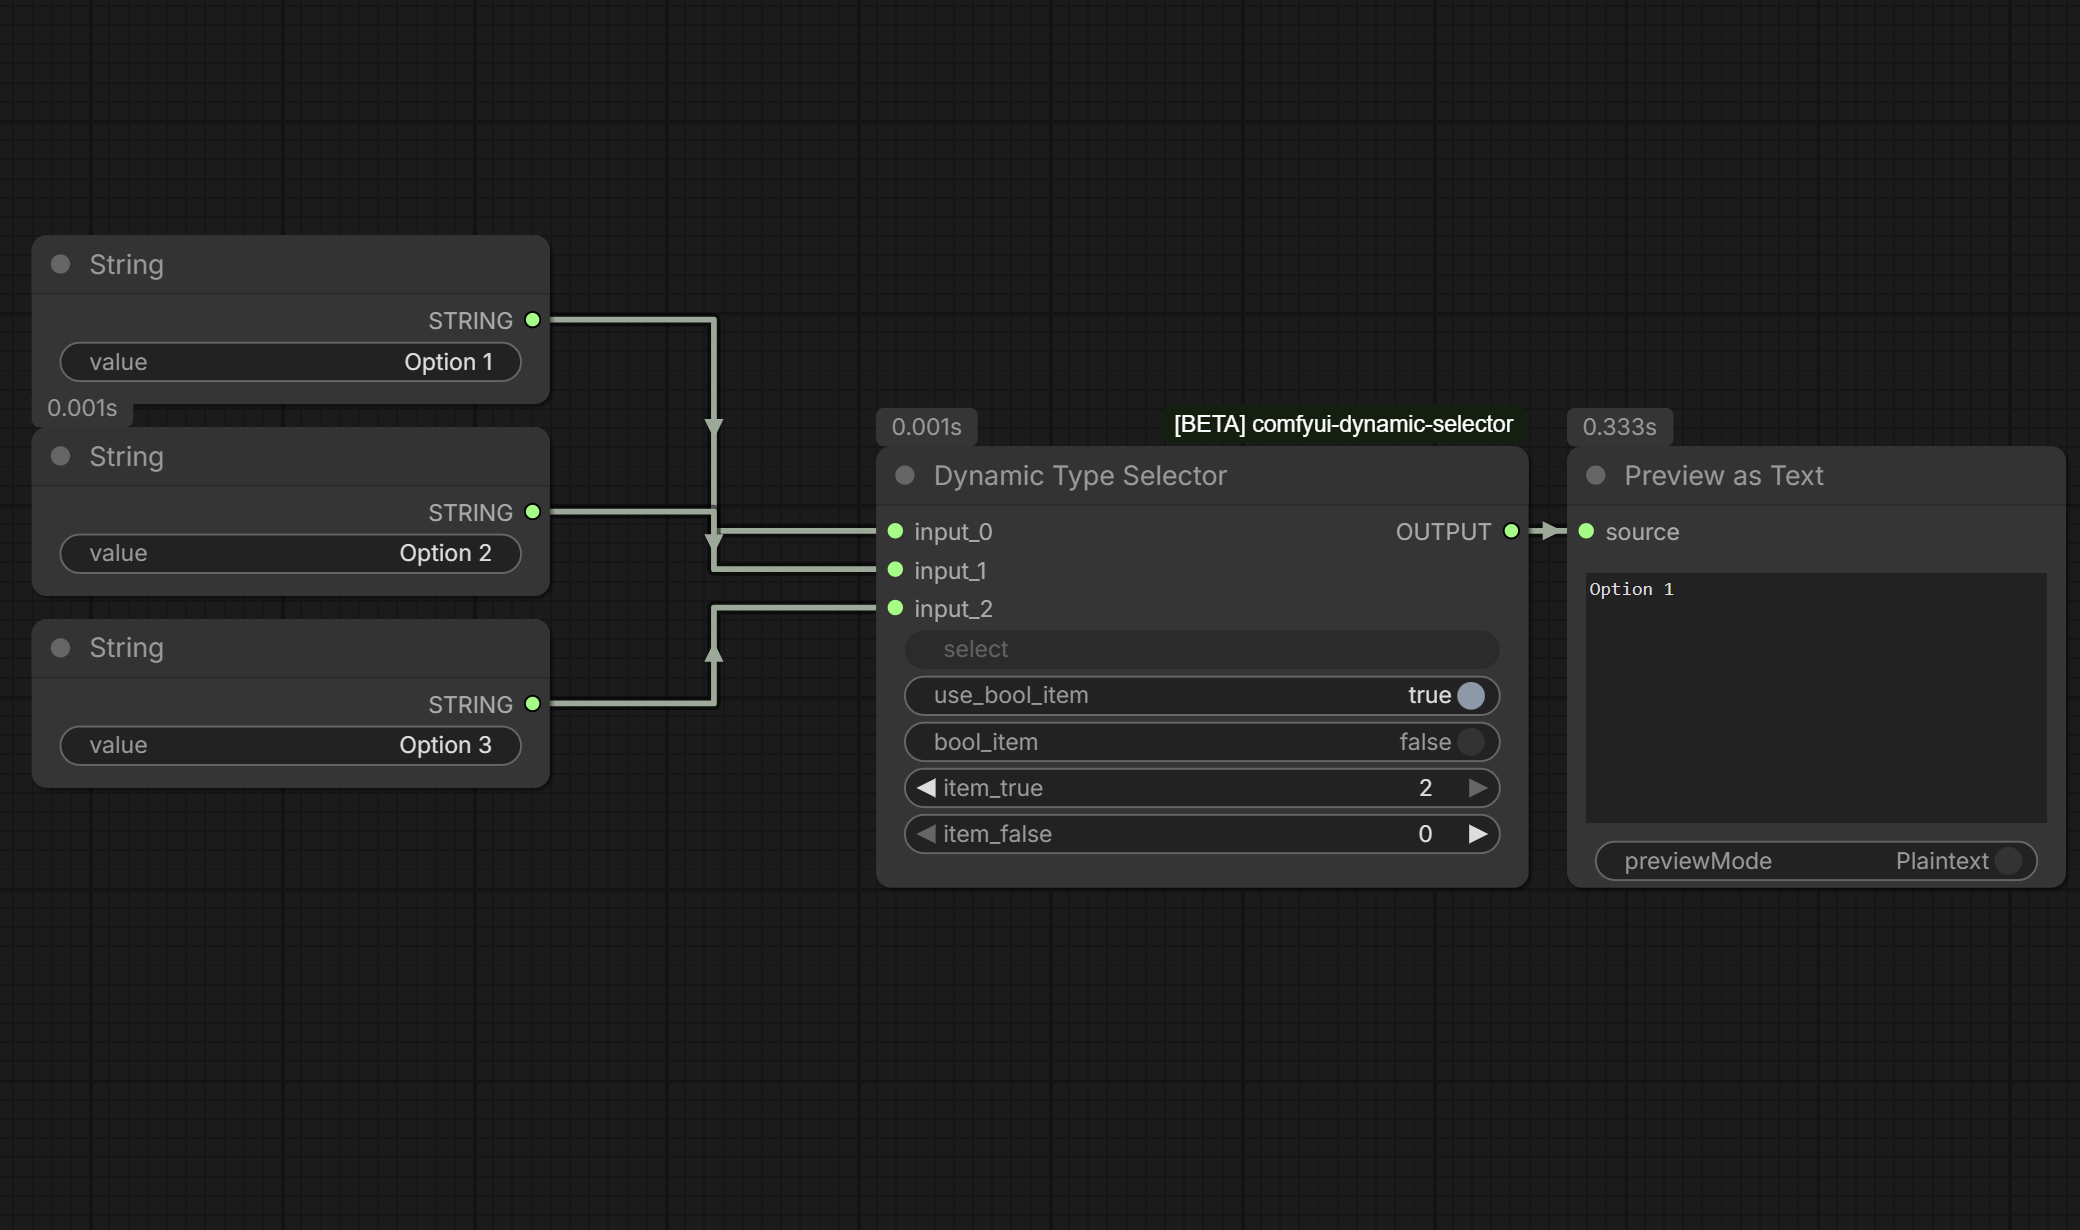
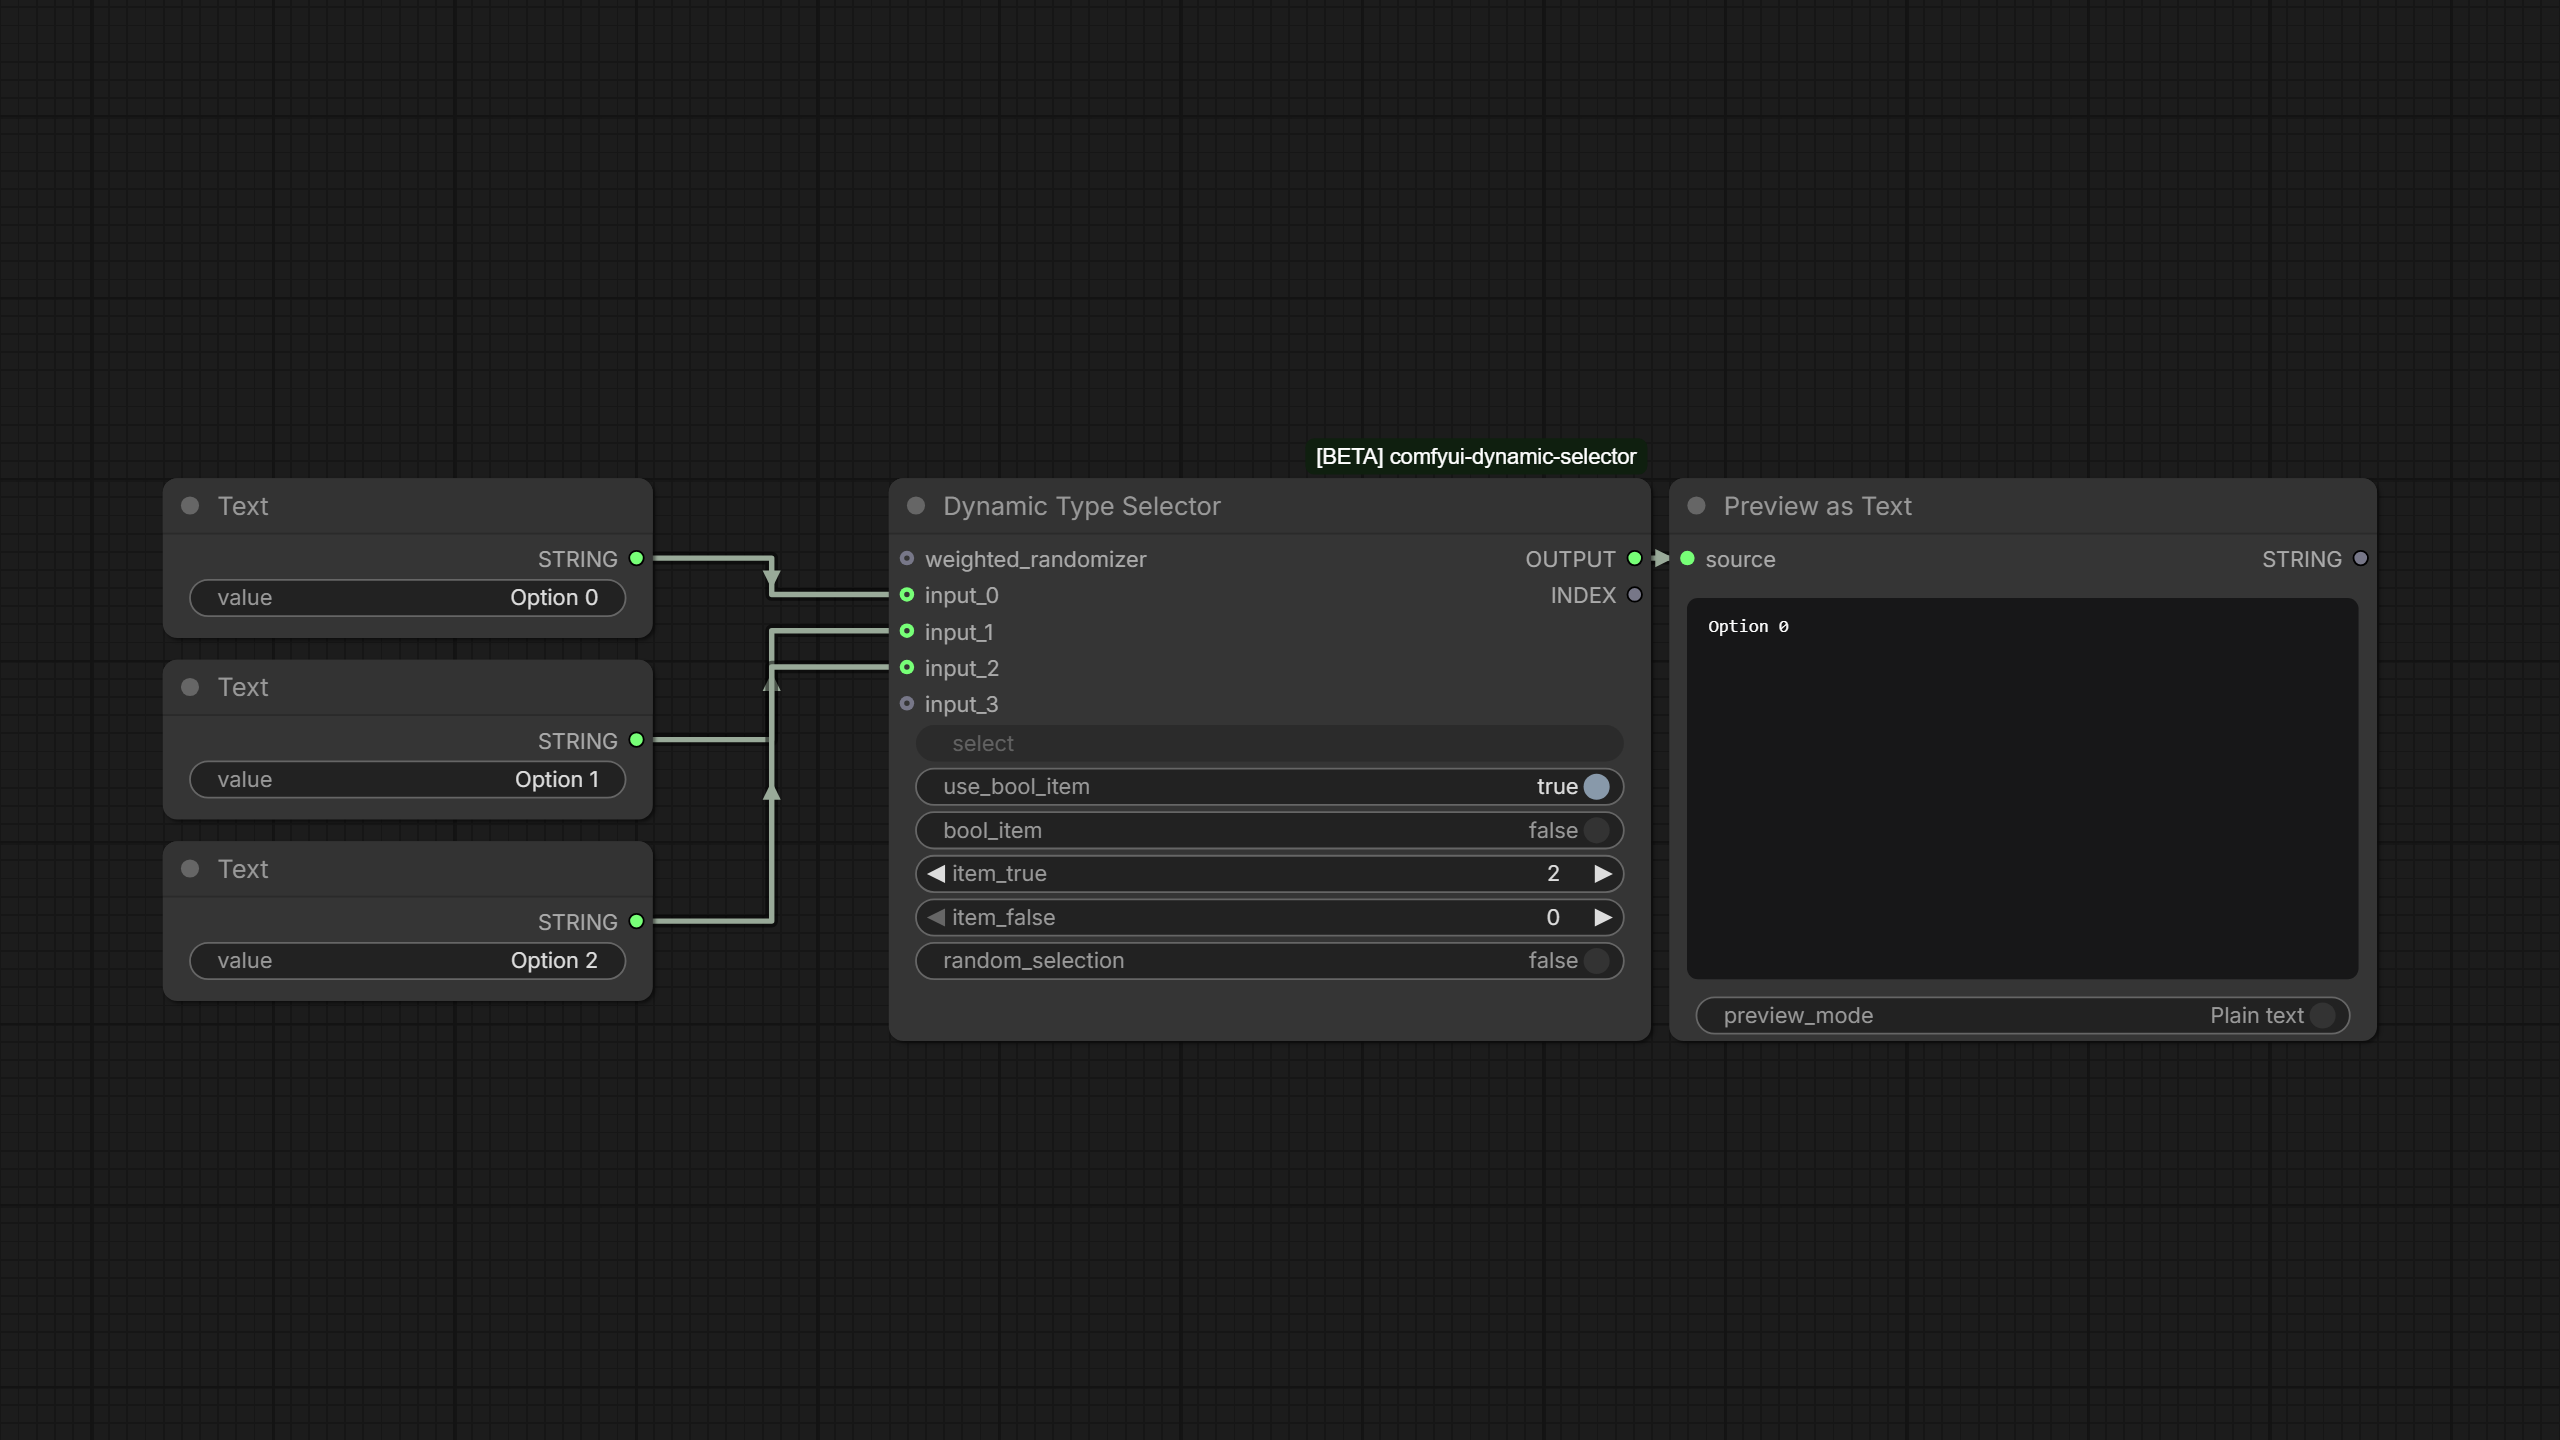
String Iterator: Support custom delimiters, allow empty items. Dynamic Combo: Fix an issue where the edited values does not get updated when being wrapped inside a Subgraph. Update document images with new node looks.

Changed region(s): [[0.0, 0.1854, 1.0, 0.7415]]

diff --git a/web/dynamic_selector.js b/web/dynamic_selector.js
@@ -1025,6 +1025,13 @@ function updateWidgetAvailability(node, widget, visible, available, skipCanvasRe
         refreshNodeAfterWidgetStateChange(node);
 }
 
+function syncCustomDelimiterVisibility(node, splitModeWidget, customDelimiterWidget) {
+    if (!splitModeWidget || !customDelimiterWidget)
+        return;
+    const mode = splitModeWidget.value;
+    updateWidgetAvailability(node, customDelimiterWidget, mode === "custom" || mode === "regex");
+}
+
 function isRandomSelectionActive(node) {
     const w = node.widgets?.find((widget) => widget.name === "random_selection");
     if (!w) return false;
@@ -1415,6 +1422,108 @@ app.registerExtension({
     },
 });
 
+function getWidgetValueStore() {
+    try {
+        const pinia = document.getElementById("vue-app")?.__vue_app__?.config?.globalProperties?.$pinia;
+        return pinia?._s?.get("widgetValue");
+    } catch {
+        return null;
+    }
+}
+
+function resolveSubgraphInputTargetForPromote(hostNode, inputName) {
+    if (!hostNode.isSubgraphNode?.() || !hostNode.subgraph?.inputNode?.slots)
+        return;
+    const inputSlot = hostNode.subgraph.inputNode.slots.find((s) => s.name === inputName);
+    if (!inputSlot)
+        return;
+    for (const linkId of inputSlot.linkIds ?? []) {
+        const link = hostNode.subgraph.getLink(linkId);
+        if (!link)
+            continue;
+        const { inputNode, input: targetInput } = link.resolve(hostNode.subgraph);
+        if (!inputNode || !targetInput)
+            continue;
+        if (inputNode.isSubgraphNode?.()) {
+            return { nodeId: inputNode.id, widgetName: targetInput.name };
+        }
+        const targetWidget = inputNode.getWidgetFromSlot?.(targetInput);
+        if (targetWidget) {
+            return { nodeId: inputNode.id, widgetName: targetWidget.name };
+        }
+    }
+}
+
+function resolveConcretePromotedChoiceWidget(hostNode, nodeId, widgetName) {
+    let currentHost = hostNode;
+    let currentNodeId = nodeId;
+    let currentWidgetName = widgetName;
+    for (let depth = 0; depth < 100; depth++) {
+        const sourceNode = currentHost.subgraph?.getNodeById?.(currentNodeId);
+        if (!sourceNode)
+            return null;
+        if (sourceNode.isSubgraphNode?.()) {
+            const target = resolveSubgraphInputTargetForPromote(sourceNode, currentWidgetName);
+            if (!target)
+                return null;
+            currentHost = sourceNode;
+            currentNodeId = target.nodeId;
+            currentWidgetName = target.widgetName;
+            continue;
+        }
+        return sourceNode.widgets?.find((w) => w.name === currentWidgetName) ?? null;
+    }
+    return null;
+}
+
+function visitGraphNodes(graph, fn) {
+    if (!graph?._nodes)
+        return;
+    for (const node of graph._nodes) {
+        if (node.isSubgraphNode?.() && node.subgraph)
+            visitGraphNodes(node.subgraph, fn);
+        fn(node);
+    }
+}
+
+function syncPromotedChoiceComboHostOptions(choiceWidget) {
+    const rootGraph = app.rootGraph ?? app.graph;
+    const widgetValueStore = getWidgetValueStore();
+    if (!rootGraph || !widgetValueStore || choiceWidget?.type !== "combo")
+        return;
+
+    visitGraphNodes(rootGraph, (hostNode) => {
+        if (!hostNode.isSubgraphNode?.())
+            return;
+        for (const input of hostNode.inputs ?? []) {
+            if (!input.widgetId)
+                continue;
+            const source = resolveSubgraphInputTargetForPromote(hostNode, input.name);
+            if (!source)
+                continue;
+            const resolvedWidget = resolveConcretePromotedChoiceWidget(
+                hostNode,
+                source.nodeId,
+                source.widgetName,
+            );
+            if (resolvedWidget !== choiceWidget)
+                continue;
+
+            const state = widgetValueStore.getWidget(input.widgetId);
+            if (!state)
+                continue;
+
+            state.options = { ...(choiceWidget.options ?? {}) };
+            const values = choiceWidget.options?.values;
+            if (Array.isArray(values) && !values.includes(state.value)) {
+                const nextValue = values[0] ?? "";
+                state.value = nextValue;
+                widgetValueStore.setValue?.(input.widgetId, nextValue);
+            }
+        }
+    });
+}
+
 app.registerExtension({
     name: "Wakaura.DynamicCombo",
 
@@ -1501,6 +1610,7 @@ app.registerExtension({
                 }
 
                 choiceWidget.callback?.(choiceWidget.value);
+                syncPromotedChoiceComboHostOptions(choiceWidget);
                 app.graph.setDirtyCanvas(true);
             };
 
@@ -1518,8 +1628,7 @@ app.registerExtension({
 
             // Initial setup
             requestAnimationFrame(() => {
-                const mode = splitModeWidget.value;
-                updateWidgetAvailability(node, customDelimiterWidget, mode === "custom" || mode === "regex");
+                syncCustomDelimiterVisibility(node, splitModeWidget, customDelimiterWidget);
                 updateComboChoiceAvailability();
                 bindRandomSelectionCallback(randomSelectionWidget, node, updateComboChoiceAvailability);
                 updateCombo();
@@ -1540,8 +1649,7 @@ app.registerExtension({
                 if (originalSplitCallback) {
                     originalSplitCallback.apply(this, arguments);
                 }
-                const mode = splitModeWidget.value;
-                updateWidgetAvailability(node, customDelimiterWidget, mode === "custom" || mode === "regex");
+                syncCustomDelimiterVisibility(node, splitModeWidget, customDelimiterWidget);
                 requestAnimationFrame(() => {
                     updateCombo();
                 });

diff --git a/dynamic_iterator.py b/dynamic_iterator.py
@@ -1,6 +1,11 @@
+import logging
+from collections import Counter
+
 from comfy_api.latest import io
 from .define import define
-from .dynamic_selector import SchemaDefineHelper
+from .dynamic_selector import DynamicCombo, SchemaDefineHelper
+
+logger = logging.getLogger(define.logger_name)
 
 
 class FloatIterator(io.ComfyNode):
@@ -135,7 +140,7 @@ class IntIterator(io.ComfyNode):
 
 class StringIterator(io.ComfyNode):
     """
-    Iterate through a list of strings, one per line.
+    Iterate through a list of strings split by a configurable delimiter.
     """
 
     @classmethod
@@ -143,7 +148,7 @@ class StringIterator(io.ComfyNode):
         return io.Schema(
             node_id="StringIterator",
             display_name="String Iterator",
-            description="Iterate through a list of strings, one per line.",
+            description="Iterate through a list of strings split by a configurable delimiter.",
             category=define.author,
             inputs=[
                 io.String.Input(
@@ -151,7 +156,30 @@ class StringIterator(io.ComfyNode):
                     display_name="Items",
                     multiline=True,
                     default="",
-                    tooltip="One string item per line.",
+                    tooltip="String list to split into iterator items.",
+                ),
+                io.Combo.Input(
+                    id="split_mode",
+                    options=[
+                        "newline",
+                        "comma",
+                        "semicolon",
+                        "pipe",
+                        "custom",
+                        "regex",
+                    ],
+                    default="newline",
+                    tooltip="Choose how to split the string into items.",
+                ),
+                io.String.Input(
+                    id="custom_delimiter",
+                    default="|",
+                    tooltip="Used when split_mode is 'custom' or 'regex'",
+                ),
+                io.Boolean.Input(
+                    id="allow_empty_items",
+                    default=False,
+                    tooltip="Include empty strings in the output list after splitting.",
                 ),
             ],
             outputs=[
@@ -164,13 +192,62 @@ class StringIterator(io.ComfyNode):
             accept_all_inputs=True,
         )
 
+    @staticmethod
+    def _warn_duplicate_items(values: list[str]) -> None:
+        for item, count in Counter(values).items():
+            if count >= 2:
+                logger.warning(
+                    "String Iterator: item %r appears %d times.",
+                    item,
+                    count,
+                )
+
     @classmethod
-    def validate_inputs(cls, items: str, **kwargs) -> bool | str:
+    def validate_inputs(
+        cls,
+        items: str,
+        split_mode: str = "newline",
+        custom_delimiter: str = "|",
+        allow_empty_items: bool = False,
+        **kwargs,
+    ) -> bool | str:
         if not items or not items.strip():
             return "Items must not be empty."
+        all_items = DynamicCombo._parse_list(
+            items,
+            split_mode,
+            custom_delimiter,
+            keep_empty=True,
+            strip_items=False,
+        )
+        if not all_items:
+            return "Items must produce at least one string after splitting."
+        if not allow_empty_items and any(not s for s in all_items):
+            return (
+                "Items contain empty entries. Enable Allow Empty Items or remove them."
+            )
+        parsed = (
+            all_items
+            if allow_empty_items
+            else [s for s in all_items if s]
+        )
+        cls._warn_duplicate_items(parsed)
         return True
 
     @classmethod
-    def execute(cls, items: str, **kwargs) -> io.NodeOutput:
-        values = [line for line in items.splitlines() if line.strip()]
+    def execute(
+        cls,
+        items: str,
+        split_mode: str = "newline",
+        custom_delimiter: str = "|",
+        allow_empty_items: bool = False,
+        **kwargs,
+    ) -> io.NodeOutput:
+        values = DynamicCombo._parse_list(
+            items,
+            split_mode,
+            custom_delimiter,
+            keep_empty=allow_empty_items,
+            strip_items=False,
+        )
         return io.NodeOutput(values)

diff --git a/dynamic_selector.py b/dynamic_selector.py
@@ -553,10 +553,10 @@ class DynamicCombo(io.ComfyNode):
             description="Create a dynamic combo box from a string list.",
             inputs=[
                 SchemaDefineHelper.weighted_randomizer_input(),
-                io.Combo.Input("choice", options=[]),
-                io.String.Input("choice_list", multiline=True),
+                io.Combo.Input(id="choice", options=[]),
+                io.String.Input(id="choice_list", multiline=True),
                 io.Combo.Input(
-                    "split_mode",
+                    id="split_mode",
                     options=[
                         "newline",
                         "comma",
@@ -569,7 +569,7 @@ class DynamicCombo(io.ComfyNode):
                     tooltip="Choose how to split the string into a combo.",
                 ),
                 io.String.Input(
-                    "custom_delimiter",
+                    id="custom_delimiter",
                     default="|",
                     tooltip="Used when split_mode is 'custom' or 'regex'",
                 ),
@@ -586,7 +586,13 @@ class DynamicCombo(io.ComfyNode):
         )
 
     @staticmethod
-    def _parse_list(choice_list: str, split_mode: str, custom_delimiter: str):
+    def _parse_list(
+        choice_list: str,
+        split_mode: str,
+        custom_delimiter: str,
+        keep_empty: bool = False,
+        strip_items: bool = True,
+    ) -> list[str]:
         if not choice_list:
             return []
         if split_mode == "newline":
@@ -607,7 +613,10 @@ class DynamicCombo(io.ComfyNode):
         else:
             raw = [choice_list]
 
-        return [x.strip() for x in raw if x.strip()]
+        items = [x.strip() for x in raw] if strip_items else list(raw)
+        if keep_empty:
+            return items
+        return [x for x in items if x]
 
     @classmethod
     def fingerprint_inputs(

diff --git a/README.md b/README.md
@@ -76,6 +76,11 @@ Generates a list of integers from `Start` to `Stop` using a specified `Increment
 
 Iterates through a list of strings provided one per line. ComfyUI fans out the list to execute downstream nodes once per string value.
 
+* **Multiple Split Modes:** Parse your list using newlines, commas, semicolons, pipes (`|`), a **custom delimiter**, or **regex**.
+* **Allow Empty Items:** Toggle this on to allow empty items passed through the execution.
+
+![String Iterator](https://github.com/wakaura-asaho/comfyui-dynamic-selector/blob/main/docs/iterator_string_updated.png)
+
 **Iterator loop cooldown (global):** Configure a single cooldown in **Settings → Wakaura → Iterator**:
 
 * **Iterator loop cooldown (seconds)** — Pause between list steps on **heavy** downstream nodes only (`0` = disabled). Fast prep steps (for example `CLIPTextEncode`) are not paced.
